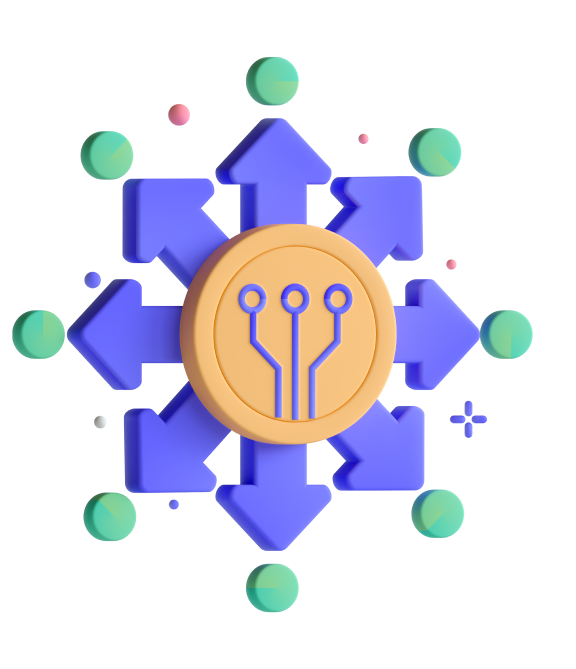
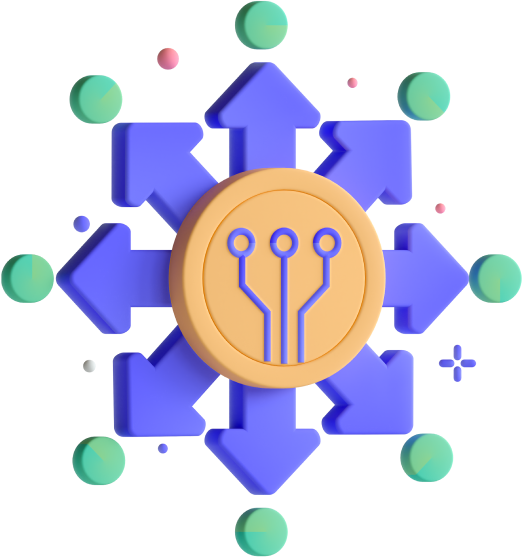
add hero adaptive

diff --git a/src/components/hero/hero.scss b/src/components/hero/hero.scss
@@ -1,12 +1,16 @@
 .hero{
+    padding-top: 140px;
     padding-bottom: 60px;
     
     .container{
         display: flex;
         align-items: center;
+        justify-content: space-between;
     }
 
     .offer{
+        max-width: 500px;
+
         margin-bottom: 123px;
 
         h4{margin-bottom: 18px;}
@@ -15,9 +19,9 @@
             margin-bottom: 25px;
         }
         .b1{
+            max-width: 420px;
             margin-bottom: 27px;
             color: $color-white_075;
-            max-width: 500px;
         }
     }
 
@@ -39,7 +43,11 @@
 
 .col-img-hero{
     position: relative;
+    left: -20px;
 
+    img{
+        width: 576px;
+    }
     &::before,
     &::after{
         content: "";
@@ -65,8 +73,8 @@
         top: 50%;
         left: 50%;
         transform: translate3d(-50%, -50%, 0);
-        width: 624px;
-        height: 783px;
+        width: 108.5%;
+        height: 125%;
         background: rgba(255, 255, 255, 0.1);
         border-radius: 330px;
         z-index: 2;
@@ -88,6 +96,47 @@
             left: -59px;
             top: 31px;
             background: radial-gradient(50% 50% at 50% 50%, rgba(52, 255, 182, 0.25) 0%, rgba(255, 255, 255, 0) 100%);
+        }
+    }
+}
+
+@media (max-width: $point-xl){
+    .hero{
+        .container{
+            justify-content: center;
+        }
+        .offer{
+            display: flex;
+            flex-direction: column;
+            align-items: center;
+            text-align: center;
+        }
+        &__col-img{
+            display: none;
+        }
+    }
+}
+
+
+@media (max-width: $point-sm){
+    .hero{
+        .offer{
+            h4{
+                font-size: 18px;
+                margin-bottom: 12px;
+            }
+            h1{
+                font-size: 52px;
+                line-height: 60px;
+                margin-bottom: 15px;
+            }
+            margin-bottom: 40px;
+        }
+        .statistics{
+            &__wrapper{
+                flex-direction: column;
+                gap: 15px;
+            }
         }
     }
 }

diff --git a/src/assets/styles/vars.scss b/src/assets/styles/vars.scss
@@ -6,11 +6,11 @@ $ff-secondary: "Josefin Sans", sans-serif;
 $limited: 1170px;
 
 // media breakpoints
-$points-sm: 576.98px;
-$points-md: 768.98px;
-$points-lg: 992.98px;
-$points-xl: 1200.98px;
-$points-xxl: 1400.98px;
+$point-sm: 576.98px;
+$point-md: 768.98px;
+$point-lg: 992.98px;
+$point-xl: 1200.98px;
+$point-xxl: 1400.98px;
 
 // font-weight
 $fw-light: 300;

diff --git a/src/components/footer/footer.scss b/src/components/footer/footer.scss
@@ -49,7 +49,9 @@
 
         li{
             cursor: pointer;
-            width: 55px;
+            flex: 0 0 55px;
+            width: 100%;
+            max-width: 55px;
             height: 55px;
             background-color: rgba($color-white, .35);
             transition: .3s;
